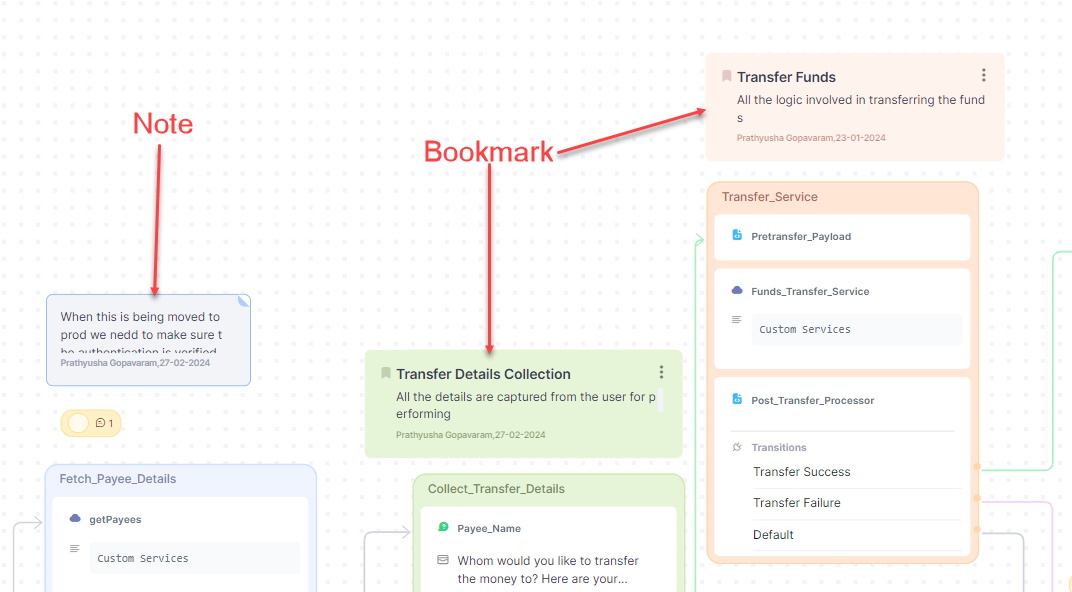
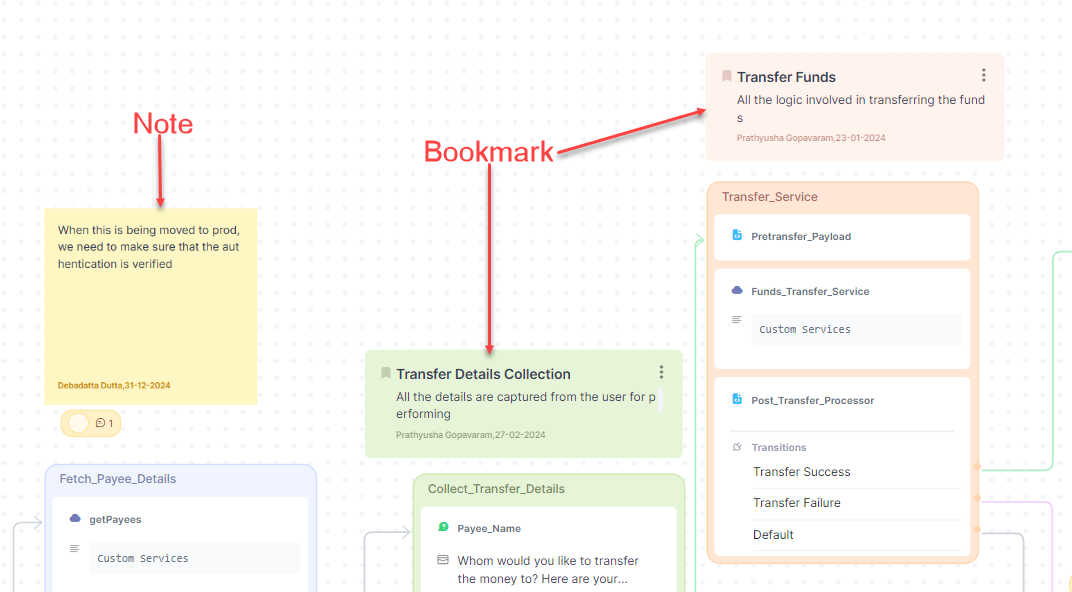
updated multiple docs

Changed region(s): [[0.0308, 0.2432, 0.2463, 0.6993]]

diff --git a/docs/xo/getting-started/navigating-the-platform.md b/docs/xo/getting-started/navigating-the-platform.md
@@ -19,7 +19,8 @@ The top menu available on the landing page provides access to the following opti
 3. **Invite Users** – You can invite members to collaborate on the App creation journey.
 4. **Account Switcher** – If you are part of more than one organization, you can switch between accounts.
 5. **Profile** - Access the profile section, which allows you to reach the following features:
-    * **Profile** - View and edit your profile.
+    * **Manage Profile** - View and edit your profile.
+    * **App Language** - Allows users to switch between supported languages like English, Japanese, and Korean for all user interface elements and content.
     * **Admin Console** – Access the Admin Console only if you are an Administrator. This is where you can manage your account and associated assets.
     * **Logout**.
 

diff --git a/docs/xo/automation/use-cases/dialogs/using-the-dialog-builder-tool.md b/docs/xo/automation/use-cases/dialogs/using-the-dialog-builder-tool.md
@@ -377,6 +377,7 @@ You can use Notes, Comments, and Bookmarks to easily record and collaborate betw
 You can place **Notes** on strategic points on the canvas and write down the dialog's introduction, a list of subtasks, and the purpose of each subtask.
 
 Using **Bookmarks**, you can create navigation points in a dialog with a complex structure so that you can quickly navigate to the bookmarked points without having to manually search the entire design. You can mention the specific point of the dialog flow in the bookmarks as an easy reference for other users.
+You can use custom colours for both Notes and Bookmarks to improve visibility and collaboration.
 
 <img src="../images/navigate-dialog-builder-text-bookmark.png" alt="Notes and Bookmark" title="Notes and Bookmark" style="border:1px solid gray;zoom:70%;">
 

diff --git a/docs/xo/app-settings/app-profile.md b/docs/xo/app-settings/app-profile.md
@@ -118,7 +118,7 @@ Once the <strong>Target Audience</strong> is defined and saved, you cannot chang
   </tr>
 </table>
 
-To save the App settings, click **Save**. The _&lt; **App Name** > updated successfully_ message is displayed.
+Any edits made to the **App Profile** are auto-saved.
 
 ## Customizing Error Messages
 
